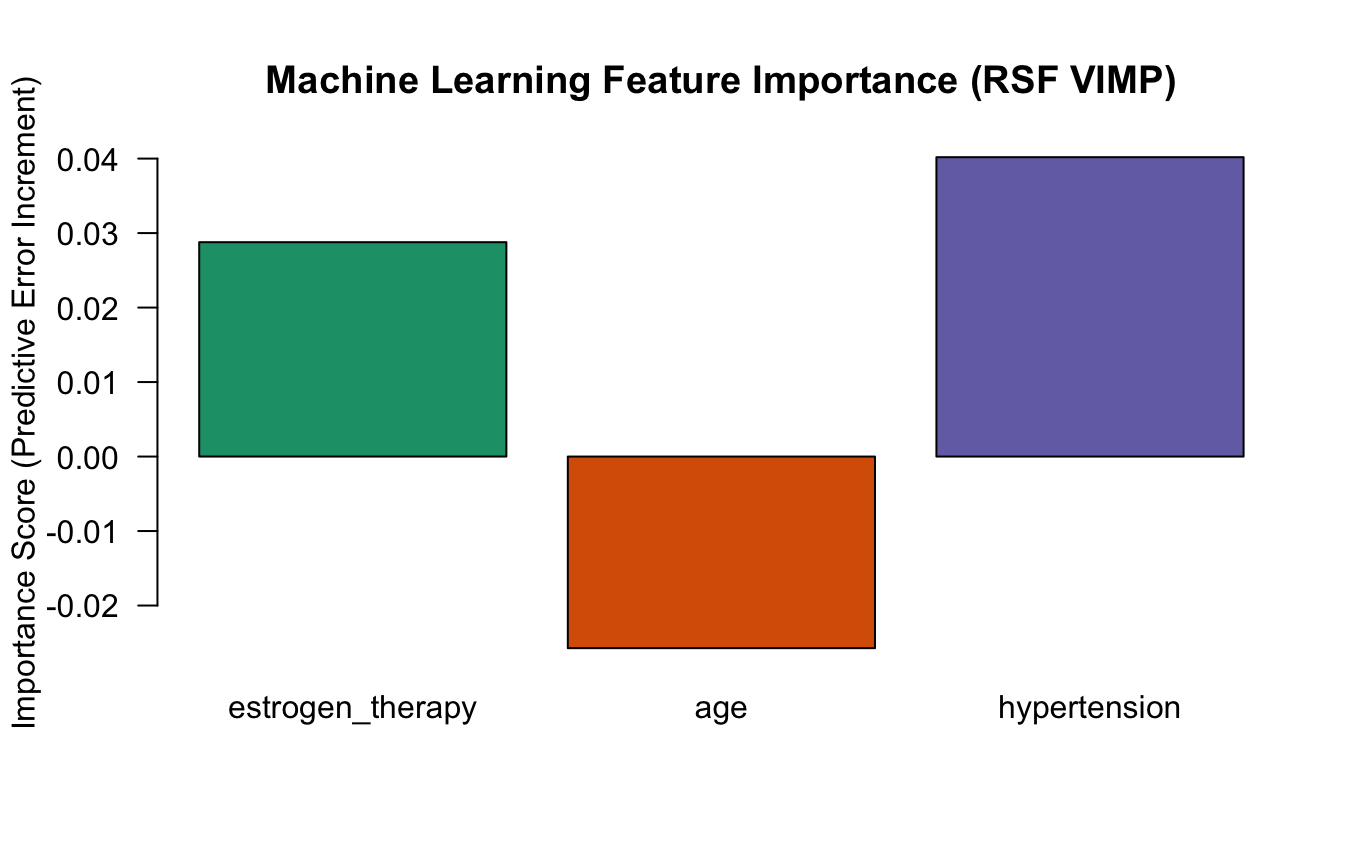
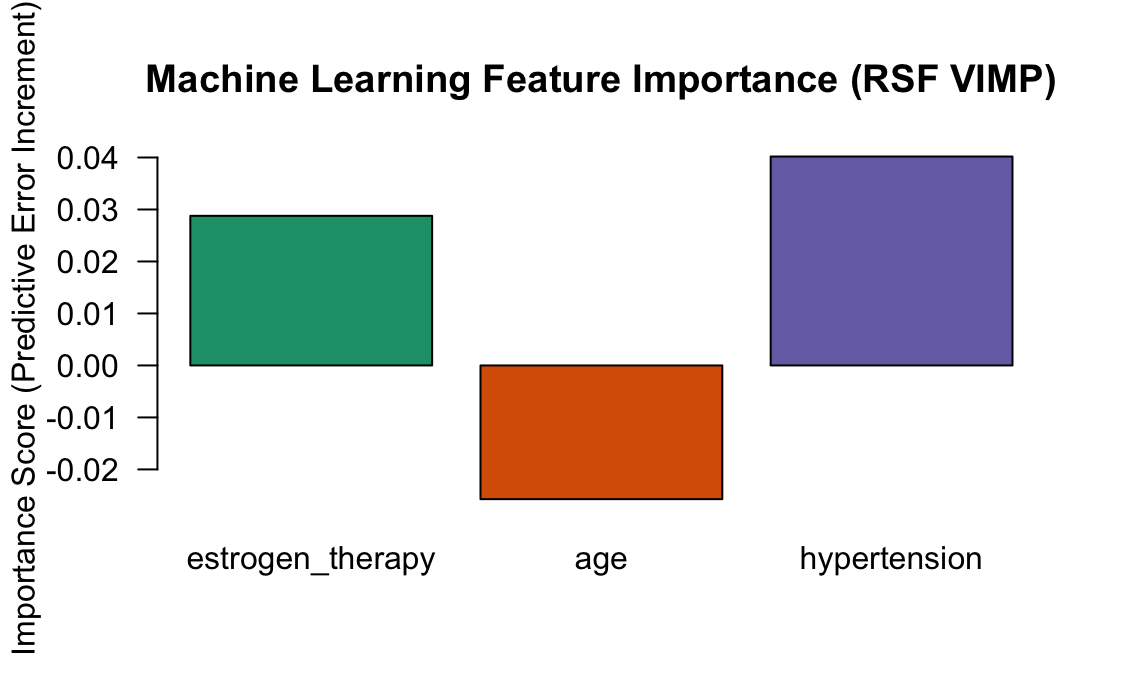
Refactor: Remove institutional and departmental references for privacy

diff --git a/index.html b/index.html
@@ -9,7 +9,7 @@
 <meta http-equiv="X-UA-Compatible" content="IE=EDGE" />
 
 
-<meta name="author" content="PhD Candidate Portfolio" />
+<meta name="author" content="Phyo Nyein Chan" />
 
 <meta name="date" content="2026-05-17" />
 
@@ -352,7 +352,7 @@ display: none;
 
 <h1 class="title toc-ignore">Estrogen Therapy and Future Cardiovascular
 Risk: A Biostatistical Simulation</h1>
-<h4 class="author">PhD Candidate Portfolio</h4>
+<h4 class="author">Phyo Nyein Chan</h4>
 <h4 class="date">2026-05-17</h4>
 
 </div>

diff --git a/README.md b/README.md
@@ -1,11 +1,12 @@
 # Estrogen Supplementation and Cardiovascular Disease Risk: An Advanced Epidemiological & Machine Learning Survival Analysis
+
 ## Interactive Document
-[👉 CLICK HERE TO VIEW THE FULL INTERACTIVE REPORT]https://phyonyeinchan.github.io/estrogen-therapy-cvd-survival-analysis/
+[👉 CLICK HERE TO VIEW THE FULL INTERACTIVE REPORT](https://phyonyeinchan.github.io/estrogen-therapy-cvd-survival-analysis/)
 
 ---
 
 ## Background & Objective
-This project is strategically aligned with the cutting-edge research priorities of the Unit for Cardiovascular and Nutritional Epidemiology at the Institute of Environmental Medicine (IMM), Karolinska Institutet. 
+This project is strategically aligned with cutting-edge research priorities in cardiovascular and nutritional epidemiology. 
 
 The primary objective is to investigate the pharmacological treatment of estrogen supplementation in post-menopausal women and evaluate its longitudinal relationship with future chronic disease, specifically cardiovascular disease (CVD) risk. By utilizing multi-layered biostatistical methods and modern predictive frameworks, this project explores sex-specific medicine dynamics—evaluating whether estrogen therapy exhibits protective cardiovascular properties while rigorously adjusting for and diagnosing baseline clinical confounding elements (e.g., chronological age and hypertension status).
 